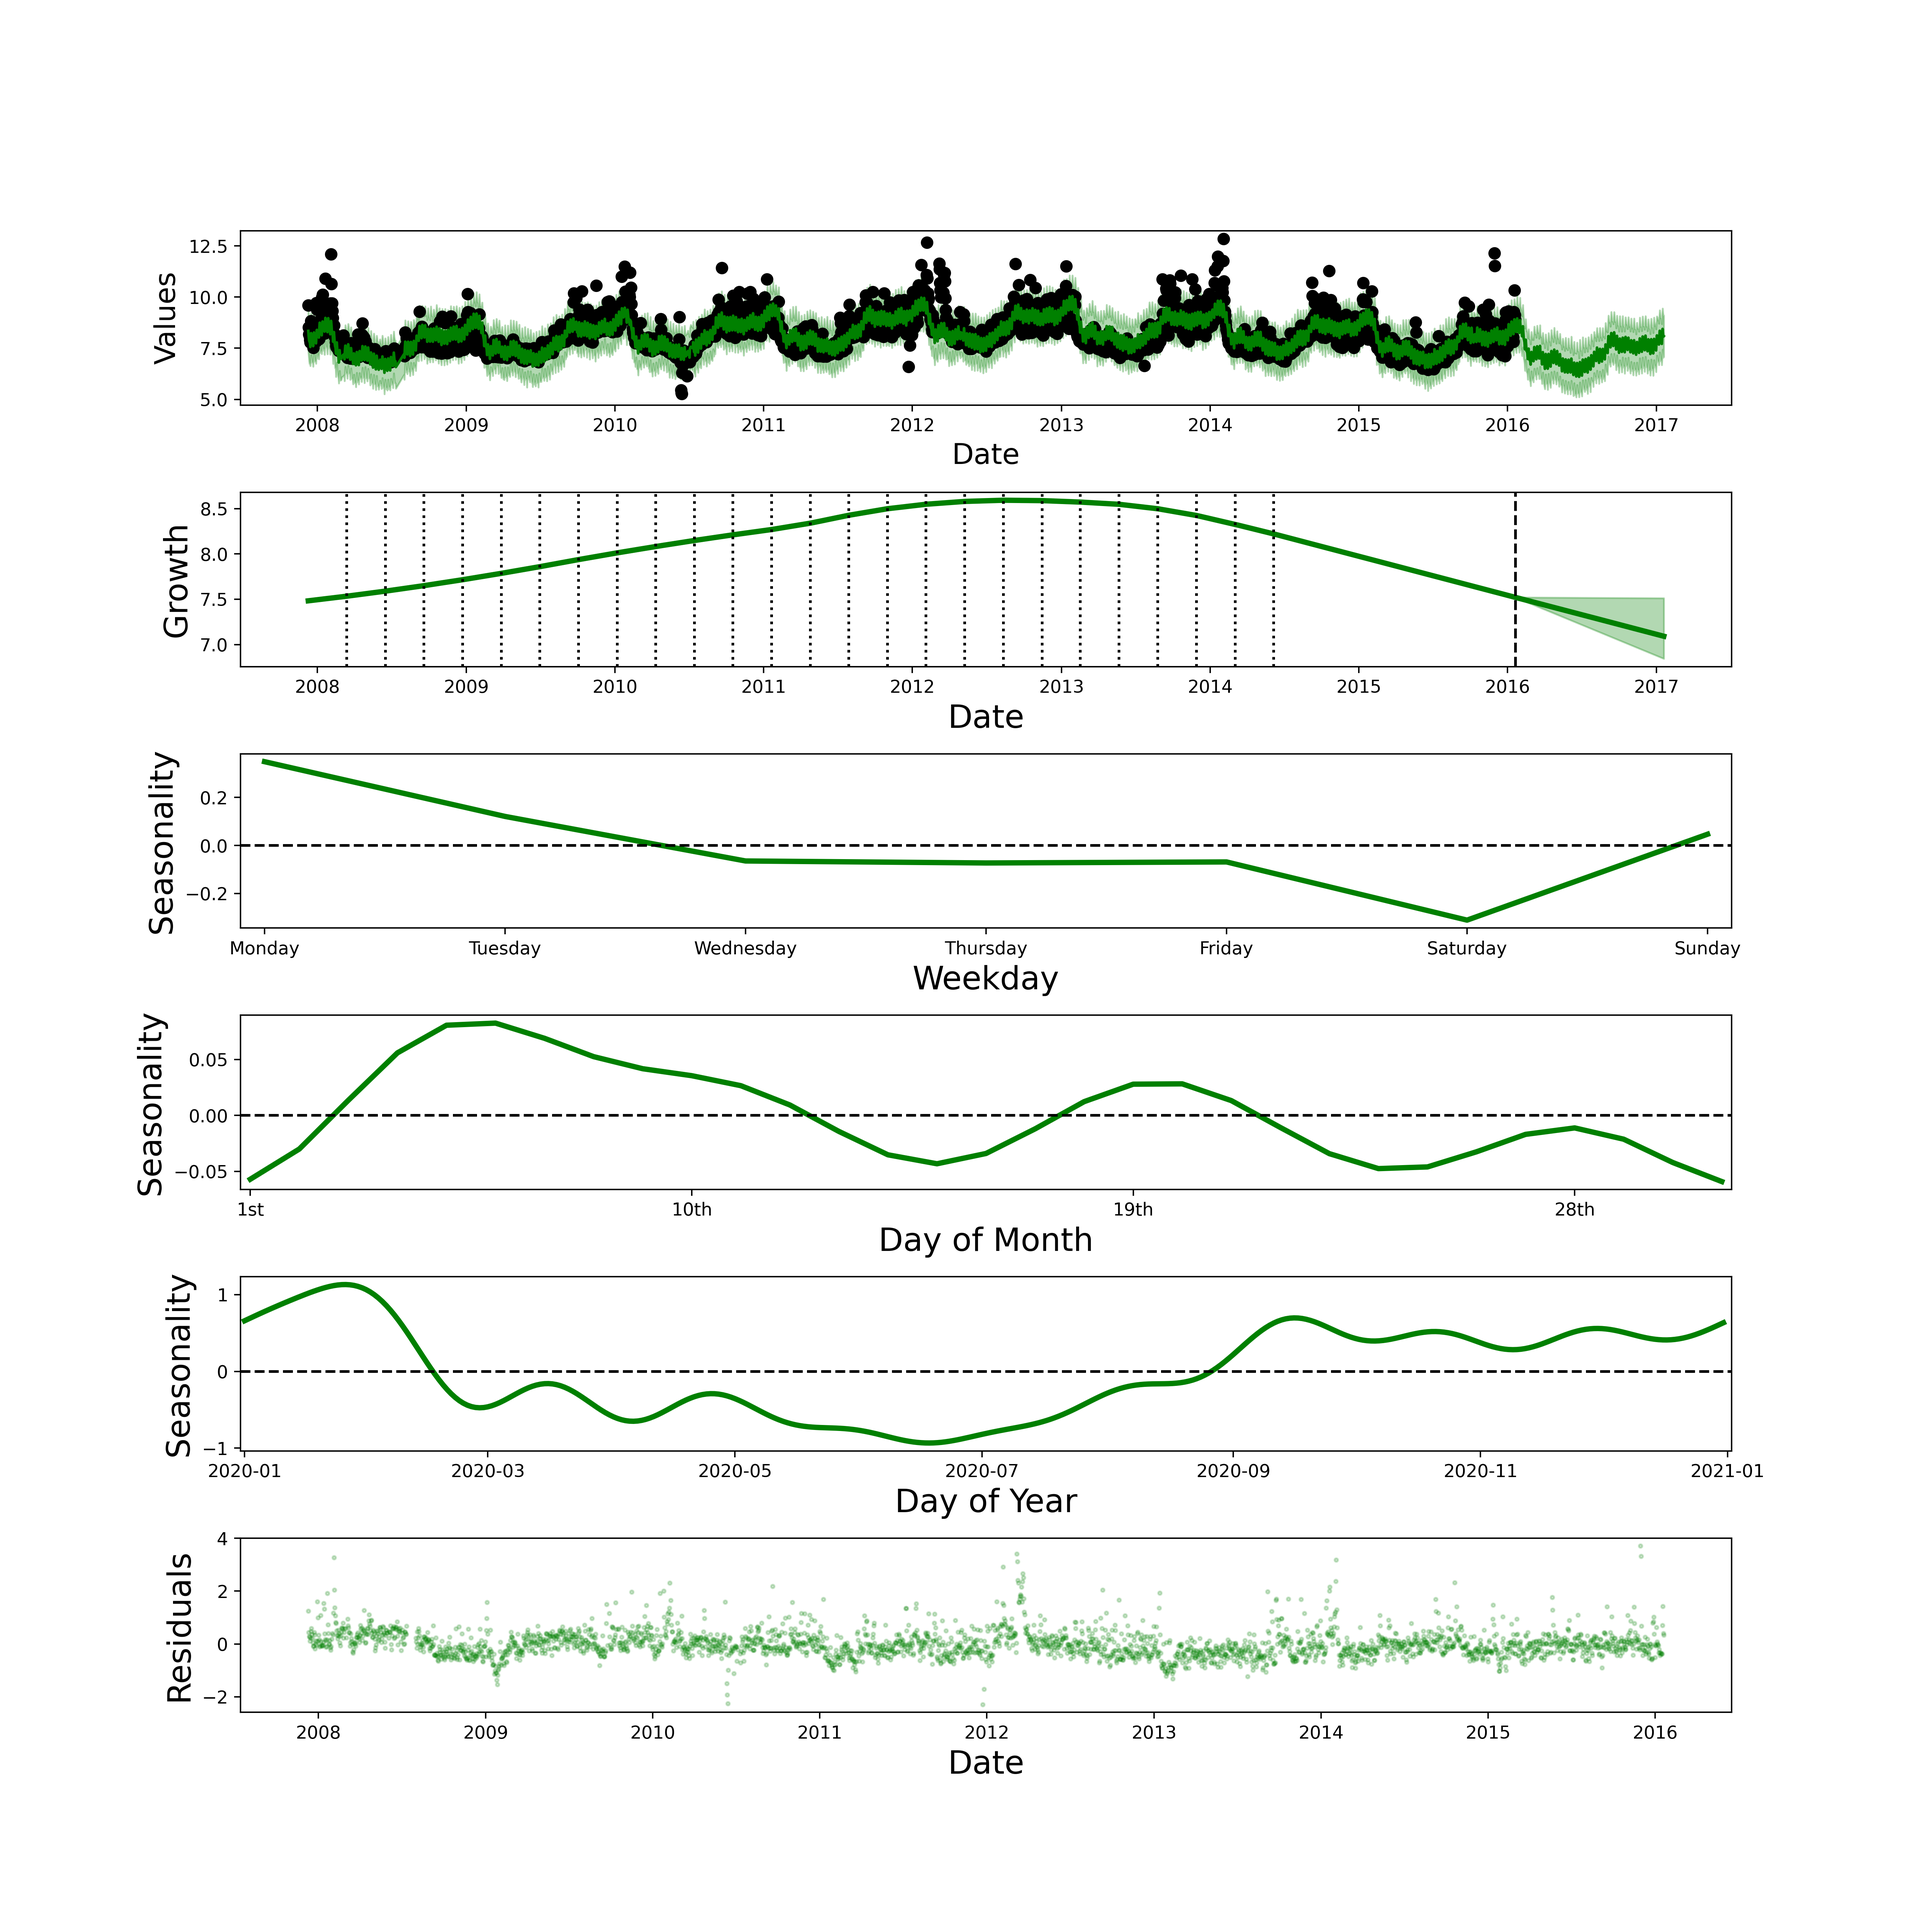
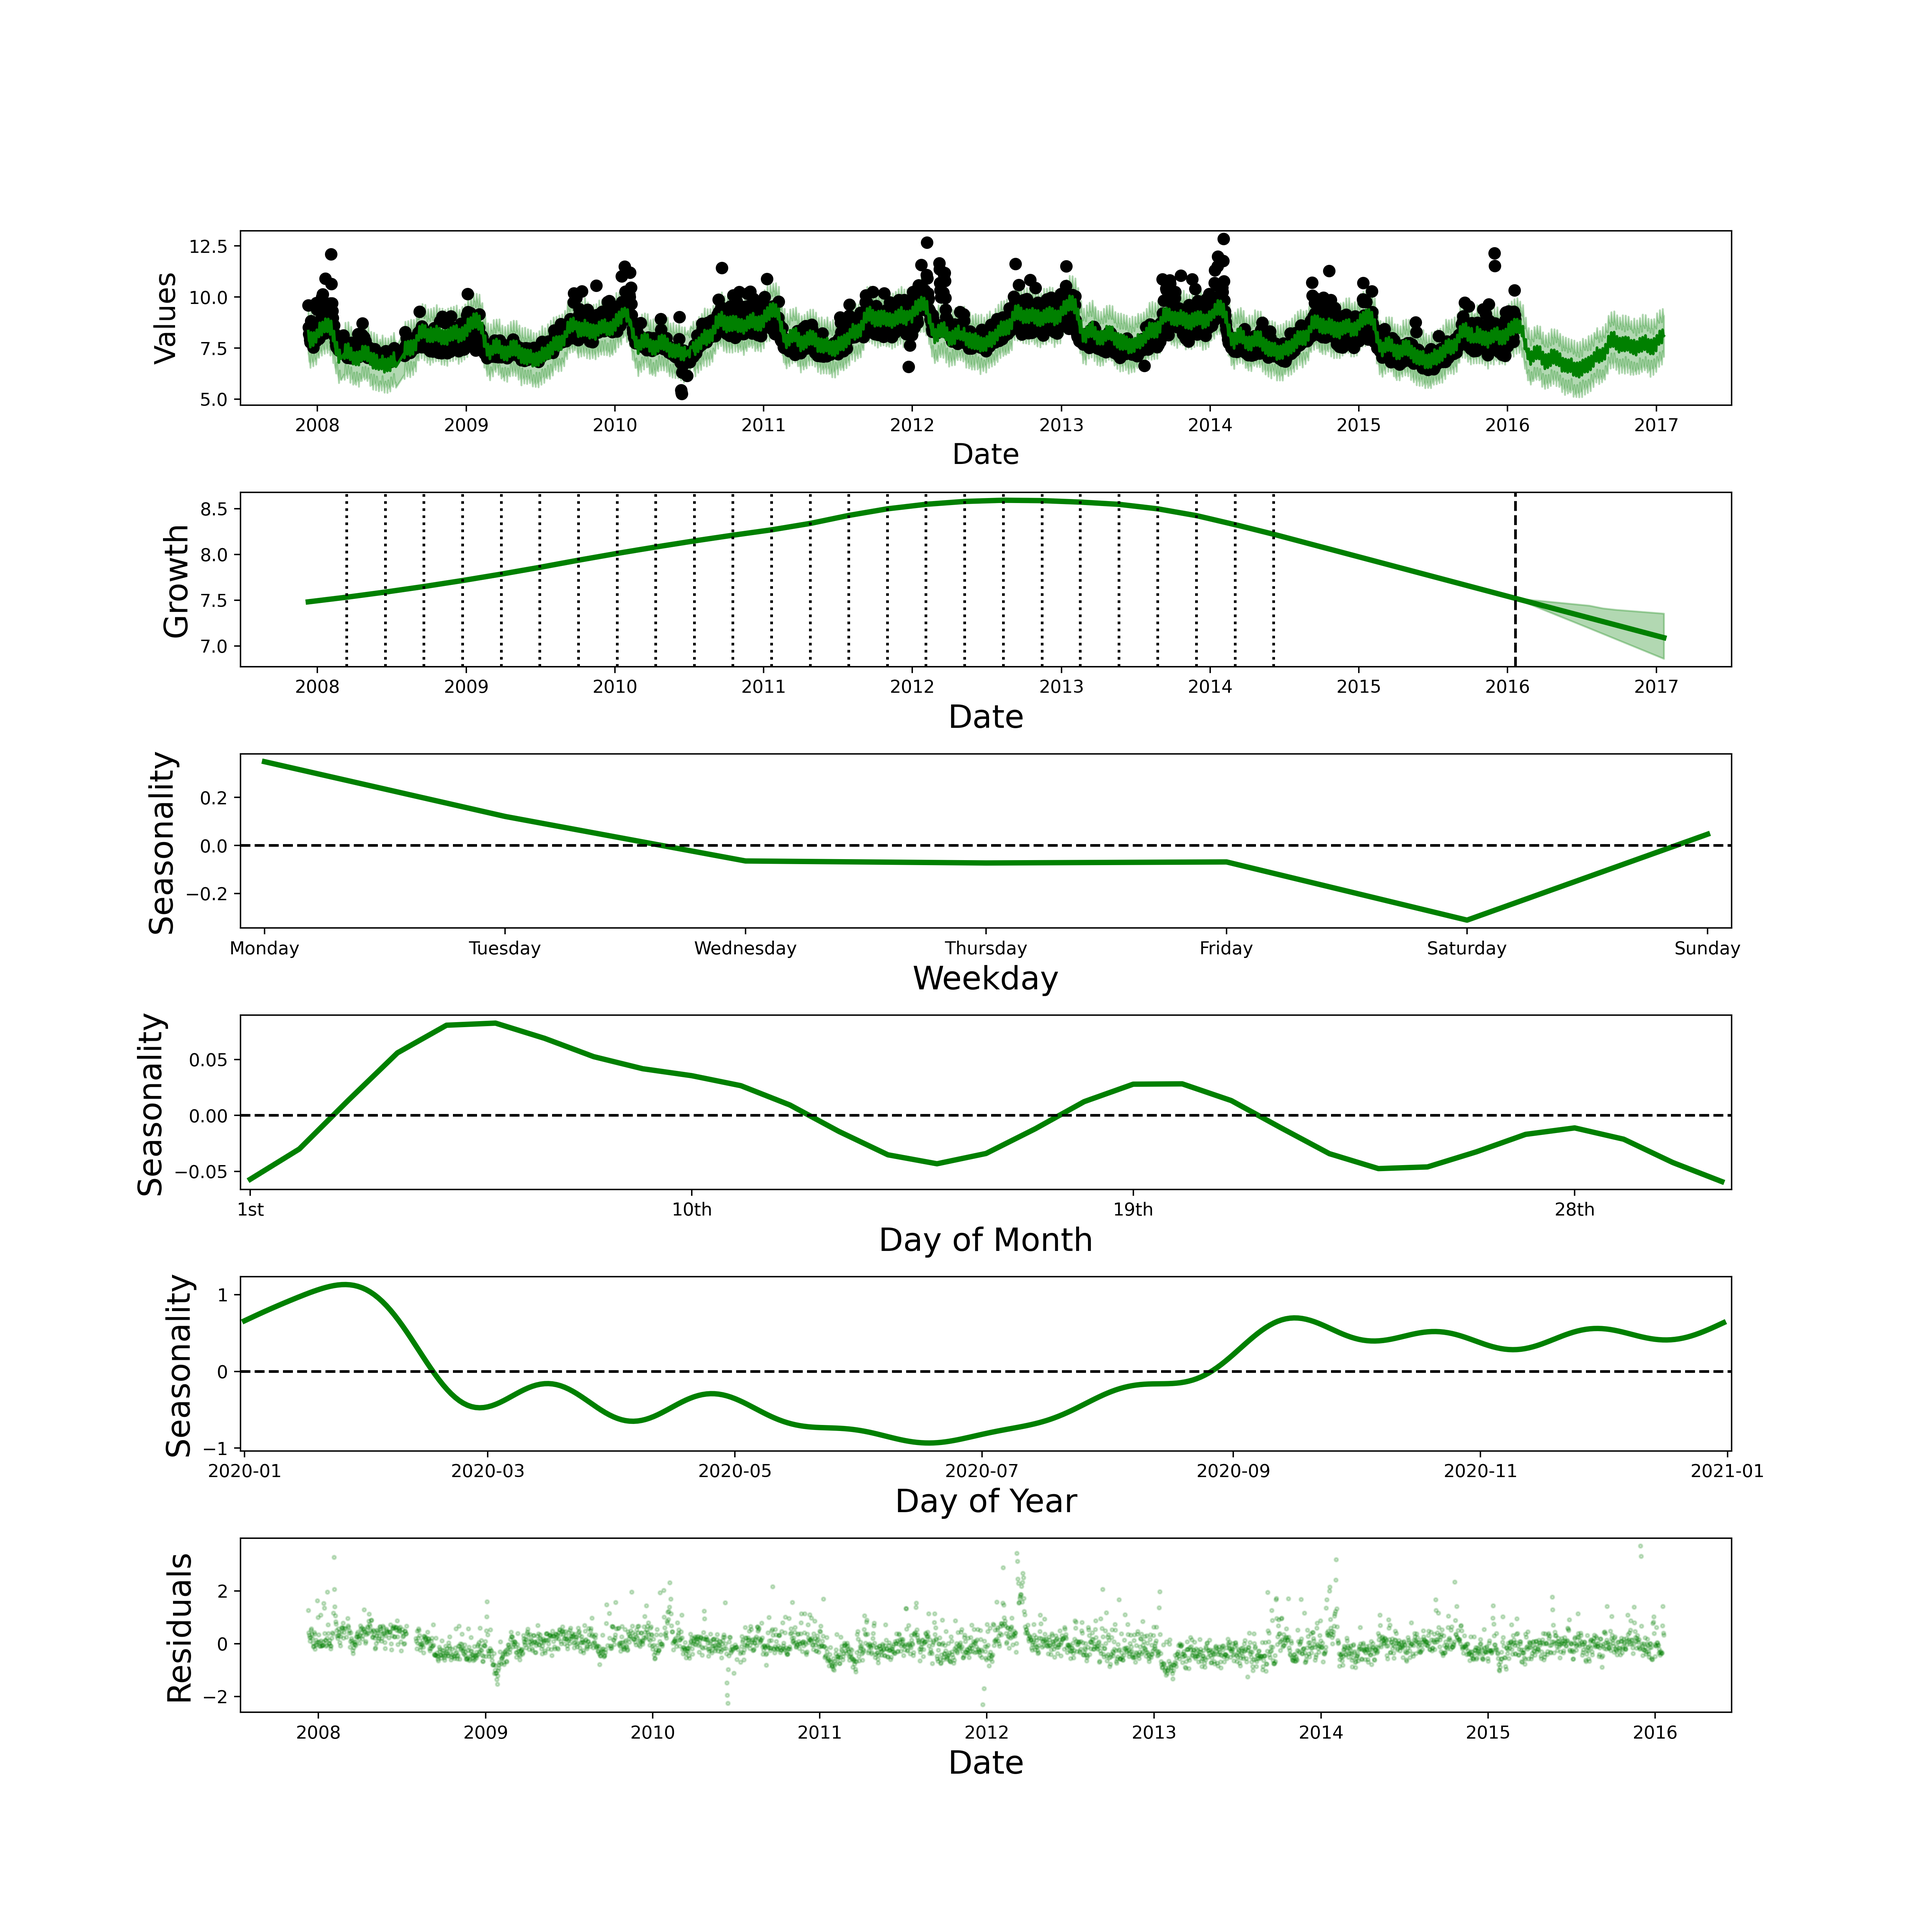
documenting current code. predict method now works without producing a future df manually

Changed region(s): [[0.1562, 0.8438, 0.8438, 0.875], [0.8125, 0.3125, 0.875, 0.3438]]

diff --git a/chronos.py b/chronos.py
@@ -47,7 +47,7 @@ class Chronos:
     
     
     def __init__(self, 
-                 method="MLE", 
+                 method="MAP", 
                  time_col = "ds",
                  target_col="y", 
                  n_changepoints = 20,
@@ -55,13 +55,16 @@ class Chronos:
                  month_seasonality_order=5,
                  weekly_seasonality_order=3,
                  learning_rate=0.01,
+                 changepoint_range = 0.8,
+                 changepoint_prior = 0.05,
                  max_iter=1000):
         
         self.method_ = method
         self.n_iter_ = max_iter
         self.lr_ = learning_rate
         self.n_changepoints_ = n_changepoints
-        self.changepoint_range_  = 0.8
+        self.changepoint_range_  = changepoint_range
+        self.changepoint_prior_ = changepoint_prior
         
         
         self.year_seasonality_order_ = year_seasonality_order
@@ -608,7 +611,7 @@ class Chronos:
 
         # define slope change values for each changepoint
         deltas = pyro.sample("delta", dist.Laplace(torch.zeros(self.n_changepoints_), 
-                                                   torch.full((self.n_changepoints_, ), 0.05)).to_event(1))
+                                                   torch.full((self.n_changepoints_, ), self.changepoint_prior_)).to_event(1))
 
         # If the matrix specifies more changepoints than have been 
         # observed we have to generate the additional changepoints
@@ -645,28 +648,46 @@ class Chronos:
     
     
     ########################################################################################################################
-    def predict(self, data, sample_number=1000, ci_interval=0.95):
+    def predict(self, future_df=None, sample_number=1000, ci_interval=0.95, period=30, frequency='D', include_history=True):
         '''
             A function which accepts a dataframe with at least one column, the timestamp
             and employes the learned parameters to predict observations as well as 
             credibility intervals and uncertainty intervals.
+            Alternatively, the function can accept the parameters accepted by .make_future_dataframe
+            and produce the future dataframe internally.
             Returns a dataframe with predictions for observations, upper and lower limits
             for credibility intervals, trend, and upper and lower limits on trend 
             uncertainty.
 
             Parameters:
             ------------
-            data -          The dataframe. Must at least have a single column of timestamp
-                            with the same name as the training dataframe
+            future_df -         The dataframe. Must at least have a single column of timestamp
+                                with the same name as the training dataframe. If data is not
+                                provided, period, frequency, and include_history must be
+                                provided. If data is provided, period, frequency, and include_history
+                                are ignored
 
-            sample_number - The number of posterior samples to generate in order to
-                            draw the uncertainty intervals and credibility intervals.
-                            Larger values give more accurate results, but also take
-                            longer to run. Default 1000
+            sample_number -     The number of posterior samples to generate in order to
+                                draw the uncertainty intervals and credibility intervals.
+                                Larger values give more accurate results, but also take
+                                longer to run. Default 1000
 
-            ci_interval -   The credibility interval range to generate. 0.95 generates
-                            a range such that 95% of all observations fall within this 
-                            range. Default 0.95.
+            ci_interval -       The credibility interval range to generate. 0.95 generates
+                                a range such that 95% of all observations fall within this 
+                                range. Default 0.95.
+
+            period -            The number of future observations based on
+                                frequency. The default is 30, and the default
+                                for frequency id 'D' which means 30 days ahead
+            
+            frequency -         The frequency of the period. See 
+                                https://pandas.pydata.org/pandas-docs/stable/user_guide/timeseries.html#timeseries-offset-aliases
+                                for a list of supported freuqncies.
+                                The default is 'D' which stands for calendar 
+                                day
+
+            incldue_history -   A boolean describing whether to include history
+                                observations or not used by the fit method
             
 
             
@@ -686,9 +707,15 @@ class Chronos:
                             computing yhat.
             
         '''
+        # Make a future dataframe if one is not provided
+        if (future_df is None):
+            future_df = self.make_future_dataframe(period=period, 
+                                                   frequency=frequency, 
+                                                   include_history=include_history)
+
 
         # Transform data into trend and seasonality as before
-        X_trend, X_seasonality, y = self.transform_data_(data)
+        X_trend, X_seasonality, y = self.transform_data_(future_df)
 
         # Create future changepoint markers based on the proportion of changepoints
         # encoutered in the history
@@ -752,11 +779,11 @@ class Chronos:
                 columns_to_return.append(self.target_col_)
 
             columns_to_return.append(self.time_col_)
-            predictions[self.time_col_] = data[self.time_col_]
+            predictions[self.time_col_] = future_df[self.time_col_]
 
             columns_to_return.extend(['yhat', 'yhat_upper', 'yhat_lower', 
                                       'trend', 'trend_upper', 'trend_lower'])
-                                      
+
             return predictions[columns_to_return]
         else:
             raise NotImplementedError(f"Did not implement .predict for {self.method_}")
@@ -767,34 +794,58 @@ class Chronos:
     ########################################################################################################################
     def make_future_dataframe(self, period=30, frequency="D", include_history=True):
         '''
+            A function which takes in a future range specified by the period and the
+            frequency and returns a dataframe which can be used by the predict method.
+            By default, the history is included as well for easy diagnostics via the plotting 
+            methods.
+
+            NOTE: You should only use this method if you plan on adding additional custom
+            regressors. If there are no custom regressors involved you can use the 
+            .predict method directly
 
             Parameters:
             ------------
+            period -            The number of future observations based on
+                                frequency. The default is 30, and the default
+                                for frequency id 'D' which means 30 days ahead
             
+            frequency -         The frequency of the period. See 
+                                https://pandas.pydata.org/pandas-docs/stable/user_guide/timeseries.html#timeseries-offset-aliases
+                                for a list of supported freuqncies.
+                                The default is 'D' which stands for calendar 
+                                day
+
+            incldue_history -   A boolean describing whether to include history
+                                observations or not used by the fit method
 
             
             Returns:
             ------------
+            future_df -         A dataframe with a datestamp column, and a 
+                                target column ready to be used by the 
+                                predict method. The datestamp and target
+                                column names are the same as the ones
+                                used in the fitting dataframe.
             
         '''
-        '''
-            Creates a future dataframe based on the specified parameters.
-            
-            Parameters:
-            ------------
-            [period] - int : The number of rows of future data to predict
-            
-        '''
+        # Find the highest timestamp observed, and build a new series of timestamps starting
+        # at that timestamp, then remove the first of that series. The resulting date range
+        # will begin one [frequency] ahead of the last datestamp in history (for example, 
+        # one day after, or one hour after)
         max_date_observed = self.history[self.time_col_].max()
+
         
         date_range = pd.date_range(start=str(max_date_observed), periods=period+1, freq=frequency)
         date_range = date_range[1:]
         
+        # Package everything into a dataframe
         future_df = pd.DataFrame({self.time_col_: date_range,
                                   self.target_col_: [np.nan] * date_range.shape[0]})
         
-        past_df = self.history.copy()
-        future_df = pd.concat([past_df, future_df], axis=0).reset_index(drop=True)
+        # Optionally add the history
+        if (include_history == True):
+            past_df = self.history.copy()
+            future_df = pd.concat([past_df, future_df], axis=0).reset_index(drop=True)
 
         return future_df
     

diff --git a/test_script.py b/test_script.py
@@ -13,19 +13,19 @@ my_ts_data['ds'] = pd.to_datetime(my_ts_data['ds'])
 my_chronos = Chronos(method="MAP", max_iter=100, learning_rate=10.0, n_changepoints=25)
 
 my_chronos.fit(my_ts_data)
-future_df = my_chronos.make_future_dataframe(period=365)
+#future_df = my_chronos.make_future_dataframe(period=365)
 
-predictions = my_chronos.predict(future_df, sample_number=1000)
+predictions = my_chronos.predict(sample_number=1000, period=365)
 print(predictions)
 #assert(False)
 
 
-MAE = round(np.mean(np.abs(future_df['y'] - predictions['yhat'])), 2)
+MAE = round(np.mean(np.abs(predictions['y'] - predictions['yhat'])), 2)
 
 plt.figure(figsize=(15,5))
-plt.plot(future_df['ds'], predictions['yhat'], c="green")
-plt.fill_between(future_df['ds'], predictions['yhat_upper'], predictions['yhat_lower'], color="green", alpha=0.3)
-plt.scatter(future_df['ds'], future_df['y'], c="black")
+plt.plot(predictions['ds'], predictions['yhat'], c="green")
+plt.fill_between(predictions['ds'], predictions['yhat_upper'], predictions['yhat_lower'], color="green", alpha=0.3)
+plt.scatter(predictions['ds'], predictions['y'], c="black")
 plt.xlabel("Date", size=16)
 plt.ylabel("LOG(page_views)", size=16)
 plt.title(f"LOG(page view) for Peyton Manning from 2007-2016.\nMAE={MAE}", size=20)
